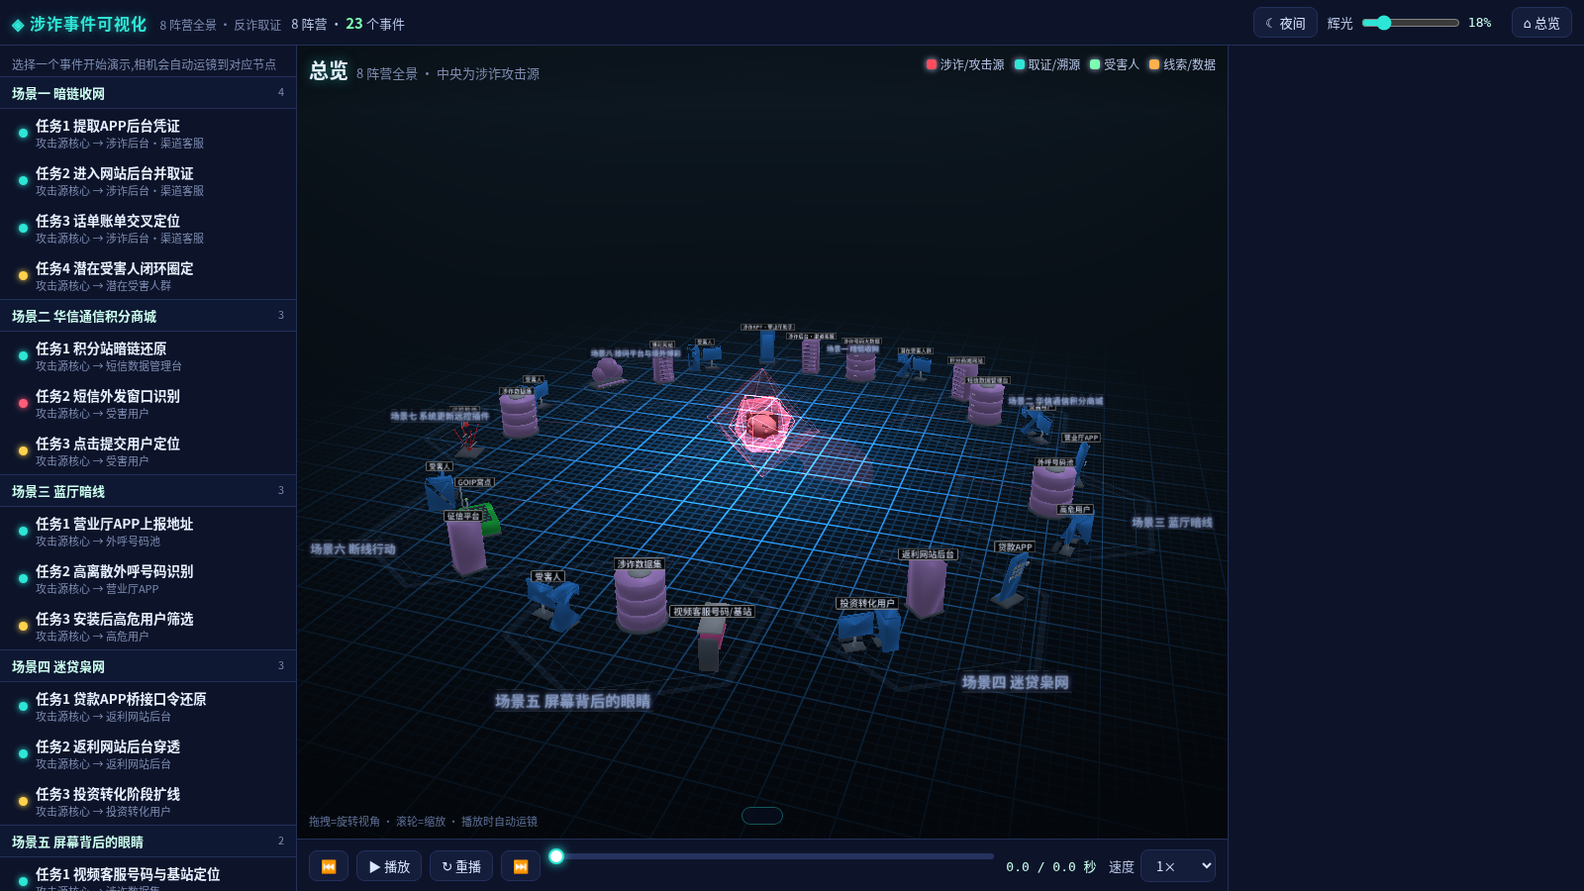
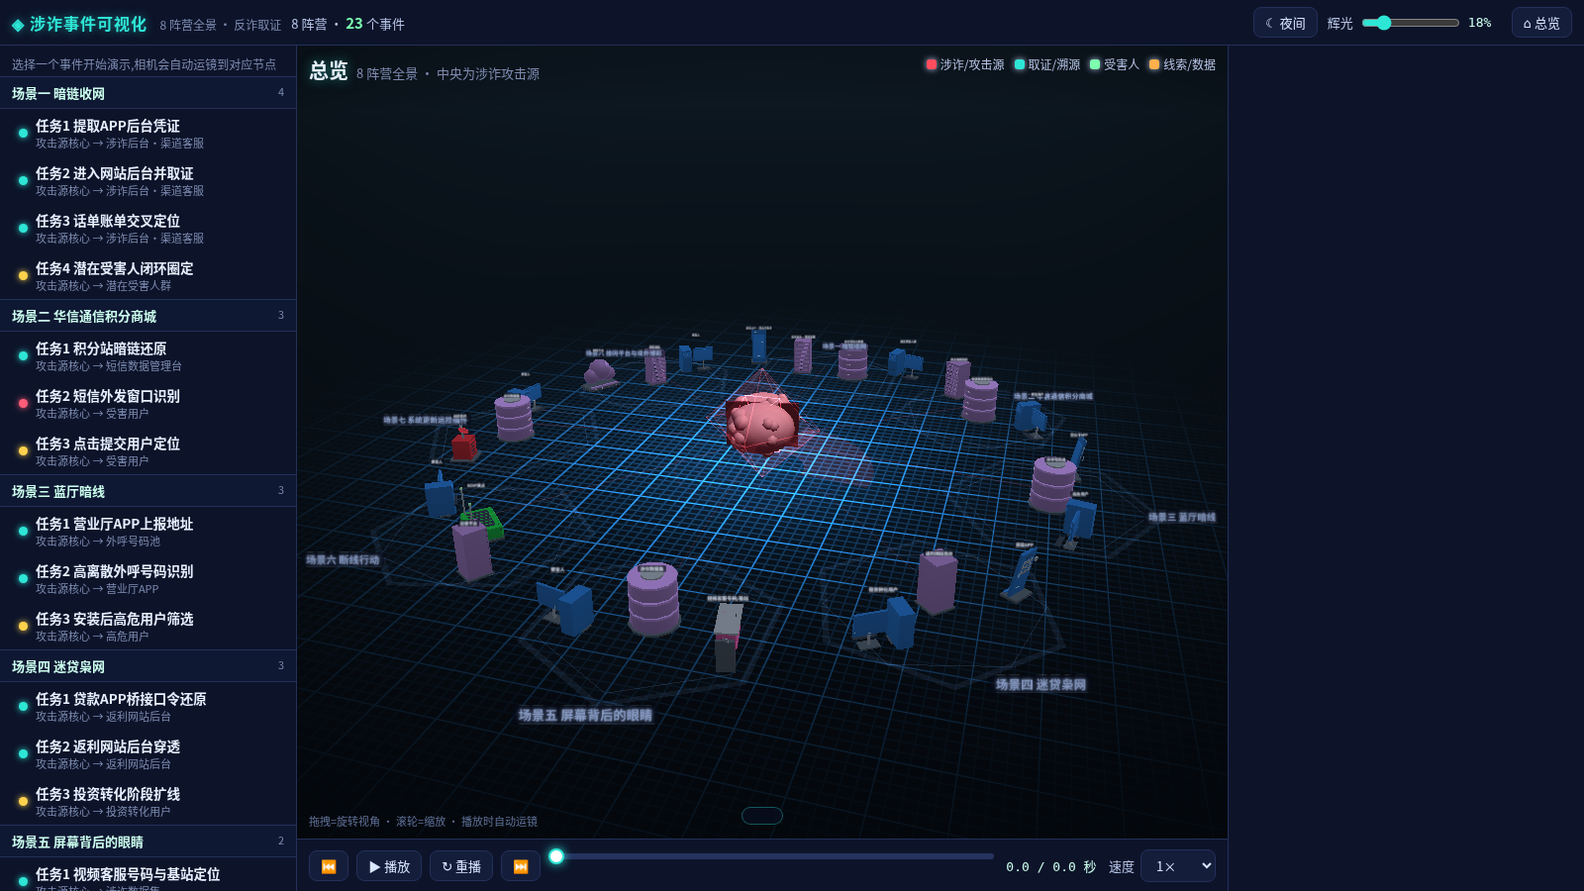
六边形一角朝中心;节点名改小字号中文标签;更新nodelib修破面;核心透空露出内部大脑

Changed region(s): [[0.1875, 0.3422, 0.7812, 0.84], [0.4375, 0.8089, 0.5, 0.84]]

diff --git a/js/nodelib.js b/js/nodelib.js
@@ -20,7 +20,7 @@ const CATS = {
 };
 /* 状态色(与事件大全语义色一致) */
 const STATE_COL = {
-  dark:  { sel: '#ffffff', atk: '#ff2a3c', def: '#22e6ff', bg: '#07090f', grid: '#1a2438' },
+  dark:  { sel: '#ffffff', atk: '#ff2a3c', def: '#22e6ff', bg: '#0b1020', grid: '#1a2438' },
   light: { sel: '#0d1626', atk: '#c4001c', def: '#007f9e', bg: '#d5dee9', grid: '#7a8799' },
 };
 /* 统一承载立方体:所有模型归一化到边长 CUBE 的包围盒(最长边=1),底面贴地、水平居中。size 仅作整体倍数。 */
@@ -184,7 +184,7 @@ const SPEC = {
   /* ===== 攻击者 / 外部(红) ===== */
   attacker: { cat: 'ext', name: '攻击者', en: 'Attacker', size: 'M', abbr: 'ATK', role: ['源'],
     use: '外部恶意行为者的抽象,事件中的发起方。',
-    look: '兜帽式尖锥身体 + 头部圆球 + 前方一块小屏。',
+    look: '坐姿兜帽黑客:卫衣躯干 + 圆肩 + 深色帽内与红色面罩线,双手搭在打开的笔记本上,屏幕红光、背面灯标;低多边形硬边。',
     parts: [P('cone', [.75, 1.4, 10], [0, .7, 0]), P('sph', [.32, 10, 8], [0, 1.55, 0]), P('cone', [.42, .45, 10], [0, 1.82, -.05]), P('box', [.7, .45, .05], [0, .7, .7], [-.3, 0, 0])], core: [0, 1.55, .3] },
   botnet: { cat: 'ext', name: '僵尸网络', en: 'Botnet', size: 'L', abbr: 'BOT', role: ['源'],
     use: '被控制的大量设备集合,常用于 DDoS 与撞库。',
@@ -192,7 +192,7 @@ const SPEC = {
     parts: [...[...Array(6).keys()].map(i => P('oct', [.25], [Math.cos(i * PI / 3) * 1.15, .6 + (i % 2) * .35, Math.sin(i * PI / 3) * 1.15])), P('sph', [.35, 10, 8], [0, 1.0, 0]), P('tor', [1.15, .02, 2 * PI], [0, .75, 0], [PI / 2, 0, 0])], core: [0, 1.0, 0] },
   c2: { cat: 'ext', name: 'C2 服务器', en: 'C2 Server', size: 'M', abbr: 'C2', role: ['源'],
     use: '恶意软件回连的指挥控制端,下发指令收集数据。',
-    look: '四棱锥格构铁塔 + 塔顶发射球 + 两道发射弧。',
+    look: '指挥服务器塔(刀片位 + 指示灯)+ 顶部碟形天线 + 两道发射弧。',
     parts: [P('cone', [.75, 2.0, 4], [0, 1.0, 0]), P('box', [.9, .04, .04], [0, .6, 0], [0, PI / 4, 0]), P('sph', [.18, 8, 6], [0, 2.15, 0]), P('tor', [.45, .025, PI * .6], [0, 2.15, 0], [0, 0, PI * .2]), P('tor', [.75, .025, PI * .6], [0, 2.15, 0], [0, 0, PI * .2])], core: [0, 2.15, 0] },
   internet: { cat: 'ext', name: '互联网', en: 'Internet', size: 'XL', abbr: 'NET', role: ['路径', '源'],
     use: '外部公共网络的抽象,内外网边界的另一侧。',
@@ -200,7 +200,7 @@ const SPEC = {
     parts: [P('sph', [1.1, 16, 10], [0, 1.25, 0]), P('tor', [1.45, .03, 2 * PI], [0, 1.25, 0], [PI / 2 - .4, 0, .3]), P('tor', [1.15, .025, 2 * PI], [0, 1.25, 0], [0, 0, 0])], core: [0, 1.25, 0] },
   insider: { cat: 'ext', name: '内部威胁', en: 'Insider Threat', size: 'M', abbr: 'INS', role: ['源'],
     use: '拥有合法权限但滥用权限的内部人员。',
-    look: '圆柱身体 + 圆头 + 胸前工牌方片(区别于兜帽攻击者)。',
+    look: '站姿西装人物:白衬衫 + 红领带 + 胸前工牌挂绳,抱着外泄的文件盒;与兜帽攻击者同一人形语言但可区分。',
     parts: [P('cyl', [.4, .5, 1.2, 12], [0, .6, 0]), P('sph', [.33, 10, 8], [0, 1.55, 0]), P('box', [.3, .38, .04], [.15, .85, .48]), P('box', [.04, .25, .02], [.15, 1.12, .48])], core: [0, 1.55, .35] },
 
   /* ===== v7 补充:对照对抗赛 32 种模型 ===== */
@@ -413,28 +413,40 @@ const RSPEC = {
   pos: [B('base', 0, 0, 0, .9, .06, .7), B('body', 0, .06, 0, .8, .18, .6), ...ROW(4, -.3, .0, x => B('port', x, .24, .1, .06, .02, .06)), C('detail', .25, .24, -.2, .1, .3, 14, null, [0, 0, PI / 2]),
     C('detail', 0, .24, -.05, .03, .2, 8), B('body', 0, .42, .02, .5, .36, .04, [-.35, 0, 0]), B('face', 0, .45, .045, .44, .3, .01, [-.35, 0, 0]), B('led', .35, .24, .3, .04, .02, .01)],
   /* ===== 外部 / 威胁(红) ===== */
-  attacker: [C('base', 0, 0, 0, .28, .03, 10),
-    /* 兜帽斗篷:锥体 + 外扩口沿 */
-    K('body', 0, .03, 0, .34, .55, 10), C('detail', 0, .48, 0, .36, .08, 10, .3),
-    /* 头与面罩 */
-    S('body', 0, .68, .02, .13), C('face', 0, .62, .08, .12, .1, 10, .14, [PI / 2 - .2, 0, 0]),
-    B('port', 0, .64, .16, .14, .06, .02, [-.15, 0, 0]),
-    S('led', -.05, .7, .16, .02), S('led', .05, .7, .16, .02),
-    /* 肩屏 / 手持终端 */
-    B('detail', .22, .32, .12, .2, .28, .04, [0, -.4, -.2]), B('face', .22, .34, .14, .16, .22, .01, [0, -.4, -.2]),
-    B('led', .22, .42, .145, .04, .02, .01, [0, -.4, -.2]),
-    /* 腰间线缆 */
-    TO('detail', 0, .28, 0, .22, .012, PI * 1.2, [PI / 2, 0, .3])],
+  /* 兜帽黑客:坐姿半身 + 打开的笔记本(屏幕红光朝向人物,背面灯标朝外),正面 +Z */
+  attacker: [B('base', 0, 0, .02, .84, .04, .8),
+    /* 卫衣躯干(上窄下宽)+ 圆肩 */
+    C('body', 0, .04, -.16, .19, .36, 8, .25), S('body', -.15, .36, -.16, .085), S('body', .15, .36, -.16, .085),
+    B('face', 0, .1, .07, .2, .09, .02), B('detail', -.035, .27, .08, .012, .1, .012), B('detail', .035, .27, .08, .012, .1, .012),
+    /* 兜帽 + 帽檐 + 深色帽内 + 红色面罩线 */
+    S('body', 0, .56, -.15, .155), TO('face', 0, .55, .012, .108, .03, PI), C('port', 0, .54, -.002, .102, .03, 10, null, [PI / 2, 0, 0]),
+    B('led', 0, .555, .018, .13, .018, .01),
+    /* 手臂:肩 → 键盘 */
+    C('body', -.15, .03, -.01, .045, .42, 6, null, [-.78, 0, 0]), C('body', .15, .03, -.01, .045, .42, 6, null, [-.78, 0, 0]),
+    B('face', -.12, .065, .16, .07, .035, .08), B('face', .12, .065, .16, .07, .035, .08),
+    /* 笔记本:底座 + 键盘 + 后倾屏幕(红光) + 背面灯标 */
+    B('detail', 0, .04, .22, .46, .025, .26), B('port', 0, .066, .2, .36, .004, .15),
+    B('detail', 0, .05, .36, .46, .32, .02, [.22, 0, 0]), B('led', 0, .07, .345, .4, .26, .006, [.22, 0, 0]),
+    B('led', 0, .18, .385, .05, .05, .006, [.22, 0, 0])],
   botnet: [S('body', 0, .45, 0, .18), TO('detail', 0, .45, 0, .36, .01, 2 * PI, [PI / 2, 0, 0]), ...ROW(6, 0, 5, (i) => O('face', Math.cos(i * PI / 3) * .38, .38, Math.sin(i * PI / 3) * .38, .09)),
     ...ROW(6, 0, 5, (i) => B('detail', Math.cos(i * PI / 3) * .2, .44, Math.sin(i * PI / 3) * .2, .2, .01, .01, [0, -i * PI / 3, 0])), S('led', 0, .64, 0, .04), C('base', 0, 0, 0, .1, .27, 8)],
-  c2: [B('base', 0, 0, 0, .6, .04, .6), ...[[-1, -1], [1, -1], [-1, 1], [1, 1]].map(([a, b]) => C('body', a * .13, .04, b * .13, .015, .78, 6, null, [b * .3, 0, -a * .3])),
-    ...[.25, .5].flatMap(y => [B('detail', 0, y, .2 - y * .25, .5 - y * .5, .02, .02), B('detail', 0, y, -.2 + y * .25, .5 - y * .5, .02, .02)]), S('face', 0, .85, 0, .08), S('led', 0, .85, 0, .05),
-    TO('detail', 0, .85, 0, .16, .012, PI, [0, 0, 0]), TO('detail', 0, .85, 0, .26, .012, PI, [0, 0, 0])],
+  /* C2:指挥服务器塔 + 顶部碟形天线与发射弧 */
+  c2: [B('base', 0, 0, 0, .62, .04, .62), B('body', 0, .04, 0, .44, .5, .44), B('face', 0, .1, .225, .36, .38, .02),
+    ...ROW(4, .14, .4, y => [B('port', -.04, y, .238, .22, .03, .01), B('led', .13, y + .005, .238, .03, .02, .01)]).flat(),
+    C('detail', 0, .54, 0, .03, .14, 6), C('face', 0, .7, .02, .14, .05, 8, .04, [.5, 0, 0]), S('led', 0, .76, .07, .03),
+    TO('detail', 0, .8, .1, .16, .014, PI * .7, [-.5, 0, PI * .15]), TO('detail', 0, .82, .12, .25, .014, PI * .7, [-.5, 0, PI * .15])],
   internet: [C('base', 0, 0, 0, .18, .03, 8), C('detail', 0, .03, 0, .025, .08, 6), S('body', 0, .48, 0, .34),
     TO('face', 0, .48, 0, .35, .012, 2 * PI, [PI / 2, 0, 0]), TO('face', 0, .48, 0, .35, .012, 2 * PI, [0, 0, 0]),
     TO('detail', 0, .48, 0, .46, .014, 2 * PI, [PI / 2 + .35, .2, .25]), S('led', .42, .6, .08, .03)],
-  insider: [C('base', 0, 0, 0, .28, .04, 18), C('body', 0, .04, 0, .18, .5, 16, .22), S('body', 0, .7, 0, .14), B('face', .06, .34, .2, .12, .14, .02), B('led', .06, .44, .21, .04, .02, .01),
-    C('detail', -.24, .2, 0, .045, .3, 8), C('detail', .24, .2, 0, .045, .3, 8), B('port', 0, .54, .17, .1, .05, .02)],
+  /* 内部威胁:站姿西装人物 + 工牌 + 抱着外泄的文件盒,与攻击者同一人形语言 */
+  insider: [C('base', 0, 0, 0, .3, .04, 10),
+    B('port', -.07, .04, 0, .1, .34, .12), B('port', .07, .04, 0, .1, .34, .12),
+    C('body', 0, .38, 0, .17, .3, 8, .14), S('body', -.16, .64, 0, .08), S('body', .16, .64, 0, .08),
+    B('detail', 0, .5, .12, .08, .17, .03, [.12, 0, 0]), B('face', 0, .48, .14, .03, .15, .01, [.12, 0, 0]),
+    B('led', .09, .55, .14, .05, .065, .01, [.12, 0, 0]), B('detail', .06, .6, .13, .01, .08, .01, [.12, 0, -.35]),
+    C('detail', 0, .68, 0, .05, .05, 6), S('detail', 0, .8, 0, .1), S('port', 0, .84, -.015, .1),
+    C('body', -.2, .36, 0, .04, .28, 6, null, [0, 0, -.12]), C('body', .19, .44, .07, .04, .2, 6, null, [1.2, 0, 0]),
+    B('face', .14, .4, .19, .2, .16, .12), B('led', .14, .48, .25, .14, .012, .006)],
 
   /* ===== v7 新增 ===== */
   aggswitch: [B('base', 0, 0, 0, .74, .04, .6), ...[0, 1].flatMap(k => [B('body', 0, .05 + k * .26, 0, .7, .2, .56), B('face', 0, .08 + k * .26, .285, .64, .14, .02),
@@ -485,22 +497,14 @@ function segFor(size, prefer) {
   if (size < .18) return Math.min(p, 10);
   return Math.min(p, 12);
 }
-function roundedBoxGeo(T, w, h, d, b) {
-  b = Math.min(b || .02, Math.min(w, h, d) * .18);
-  /* 主体 + 顶面四条高光棱(低段数倒角观感),避免 12+8 全棱带来的面数膨胀 */
-  const g = new T.BoxGeometry(w, h, d);
-  const edges = [];
-  const add = (gw, gh, gd, x, y, z) => { const e = new T.BoxGeometry(gw, gh, gd); e.translate(x, y, z); edges.push(e); };
-  add(w - 2 * b, b, b, 0, h / 2 - b / 2, d / 2 - b / 2);
-  add(w - 2 * b, b, b, 0, h / 2 - b / 2, -(d / 2 - b / 2));
-  add(b, b, d - 2 * b, w / 2 - b / 2, h / 2 - b / 2, 0);
-  add(b, b, d - 2 * b, -(w / 2 - b / 2), h / 2 - b / 2, 0);
-  return mergeGeos(T, [g].concat(edges));
-}
+/* rbox:不再做自制倒角(旧实现把带 index 的 BoxGeometry 当作非索引数组拼接,生成交叉斜三角),直接用 BoxGeometry 原始顶点 */
 function atomGeo(T, a) {
+  const g0 = atomGeo0(T, a); if (a.flat && a.s !== 'box' && a.s !== 'rbox') { g0.deleteAttribute('normal'); g0.computeVertexNormals(); } return g0;
+}
+function atomGeo0(T, a) {
   let g, cy;
   if (a.s === 'box') { g = new T.BoxGeometry(a.w, a.h, a.d); cy = a.y + a.h / 2; }
-  else if (a.s === 'rbox') { g = roundedBoxGeo(T, a.w, a.h, a.d, a.b); cy = a.y + a.h / 2; }
+  else if (a.s === 'rbox') { g = new T.BoxGeometry(a.w, a.h, a.d); cy = a.y + a.h / 2; }
   else if (a.s === 'cyl') { const seg = segFor(Math.max(a.rt, a.rb) * 2, a.seg); g = new T.CylinderGeometry(a.rt, a.rb, a.h, seg, 1); cy = a.y + a.h / 2; }
   else if (a.s === 'cone') { const seg = segFor(a.rad * 2, a.seg); g = new T.ConeGeometry(a.rad, a.h, seg); cy = a.y + a.h / 2; }
   else if (a.s === 'tor') { const rs = segFor(a.R * 2, 16), ts = segFor(a.t * 2, 6); g = new T.TorusGeometry(a.R, a.t, Math.max(4, ts), Math.max(10, rs), a.arc); cy = a.y; }
@@ -510,31 +514,22 @@ function atomGeo(T, a) {
   g.translate(a.x, cy, a.z);
   return g.index ? g.toNonIndexed() : g;
 }
+/* 同角色原子拼接:每个原子先 toNonIndexed,保持各自原始顶点与硬边法线;不跨原子焊接、不平均法线 */
 function mergeGeos(T, list) {
+  list = list.map(g => g.index ? g.toNonIndexed() : g);
   let n = 0; list.forEach(g => n += g.attributes.position.count);
   const pos = new Float32Array(n * 3), nor = new Float32Array(n * 3); let o = 0;
   list.forEach(g => { pos.set(g.attributes.position.array, o * 3); nor.set(g.attributes.normal.array, o * 3); o += g.attributes.position.count; g.dispose(); });
-  const m = new T.BufferGeometry(); m.setAttribute('position', new T.BufferAttribute(pos, 3)); m.setAttribute('normal', new T.BufferAttribute(nor, 3)); return weldGeo(T, m);
-}
-/** 合并重复顶点(量化到 1e-4),同步法线平均 */
-function weldGeo(T, geo, eps) {
-  eps = eps || 1e-4; const inv = 1 / eps;
-  const P = geo.attributes.position.array, N = geo.attributes.normal.array;
-  const map = new Map(), idx = new Uint32Array(P.length / 3);
-  const pos = [], nor = []; let nV = 0;
-  for (let i = 0; i < P.length; i += 3) {
-    const key = (Math.round(P[i] * inv)) + ',' + (Math.round(P[i + 1] * inv)) + ',' + (Math.round(P[i + 2] * inv));
-    let id = map.get(key);
-    if (id == null) { id = nV++; map.set(key, id); pos.push(P[i], P[i + 1], P[i + 2]); nor.push(N[i], N[i + 1], N[i + 2]); }
-    else { nor[id * 3] += N[i]; nor[id * 3 + 1] += N[i + 1]; nor[id * 3 + 2] += N[i + 2]; }
-    idx[i / 3] = id;
+  /* 剔除零面积三角(球/锥极点处) */
+  const kp = [], kn = [];
+  for (let t = 0; t < n; t += 3) {
+    const i = t * 3, ax = pos[i], ay = pos[i + 1], az = pos[i + 2];
+    const ux = pos[i + 3] - ax, uy = pos[i + 4] - ay, uz = pos[i + 5] - az, vx = pos[i + 6] - ax, vy = pos[i + 7] - ay, vz = pos[i + 8] - az;
+    const cx = uy * vz - uz * vy, cy = uz * vx - ux * vz, cz = ux * vy - uy * vx;
+    if (cx * cx + cy * cy + cz * cz < 4e-16) continue;
+    for (let j = 0; j < 9; j++) { kp.push(pos[i + j]); kn.push(nor[i + j]); }
   }
-  for (let i = 0; i < nor.length; i += 3) { const l = Math.hypot(nor[i], nor[i + 1], nor[i + 2]) || 1; nor[i] /= l; nor[i + 1] /= l; nor[i + 2] /= l; }
-  const m = new T.BufferGeometry();
-  m.setAttribute('position', new T.Float32BufferAttribute(pos, 3));
-  m.setAttribute('normal', new T.Float32BufferAttribute(nor, 3));
-  m.setIndex(Array.from(idx));
-  geo.dispose(); return m;
+  const m = new T.BufferGeometry(); m.setAttribute('position', new T.Float32BufferAttribute(kp, 3)); m.setAttribute('normal', new T.Float32BufferAttribute(kn, 3)); return m;
 }
 /** 近似 AO:凹处/底面/朝下法线变暗,写入 aAo attribute */
 function bakeAO(geo, role) {
@@ -555,7 +550,7 @@ const GCACHE = {};
 /* 构建并归一化到 CUBE 立方体(最长边=CUBE,底面 y=0,水平居中),按角色合并 */
 function buildModel(T, type) {
   if (GCACHE[type]) return GCACHE[type];
-  const atoms = RSPEC[type].flat(), geos = atoms.map(a => ({ r: a.r, g: atomGeo(T, a) }));
+  const atoms = RSPEC[type].flat().map(a => SPEC[type] && SPEC[type].cat === 'ext' ? Object.assign({ flat: true }, a) : a), geos = atoms.map(a => ({ r: a.r, g: atomGeo(T, a) }));
   const bb = new T.Box3(); geos.forEach(x => { x.g.computeBoundingBox(); bb.union(x.g.boundingBox); });
   const raw = bb.getSize(new T.Vector3()), k = CUBE / Math.max(raw.x, raw.y, raw.z);
   const cx = (bb.min.x + bb.max.x) / 2, cz = (bb.min.z + bb.max.z) / 2, y0 = bb.min.y;
@@ -579,7 +574,7 @@ const ROLE_FIX = { dark: { base: '#556578', port: '#3a4860', detail: '#a8b6c8' }
 const ROLE_K = { dark: { body: .78, face: 1.0, rim: { body: .22, face: .14, base: .08, port: .04, led: 0, detail: .12 }, spec: { body: .18, face: .22, base: .06, port: .04, led: 0, detail: .12 }, shin: { body: 28, face: 36, base: 16, port: 20, led: 1, detail: 24 } }, light: { body: .88, face: 1.0, rim: { body: .12, face: .08, base: .04, port: .03, led: 0, detail: .07 }, spec: { body: .12, face: .14, base: .04, port: .03, led: 0, detail: .08 }, shin: { body: 32, face: 40, base: 18, port: 22, led: 1, detail: 28 } } };
 function roleColor(T, main, role, theme) {
   const F = ROLE_FIX[theme]; if (F[role]) return new T.Color(F[role]);
-  if (role === 'led') return main.clone().lerp(new T.Color('#ffffff'), .55);
+  if (role === 'led') { const hot = main.r > main.g * 2 && main.r > main.b * 2; return main.clone().lerp(new T.Color(hot ? '#ffb0b0' : '#ffffff'), hot ? .25 : .55); }
   return main.clone().multiplyScalar(ROLE_K[theme][role]);
 }
 function hemiColors(theme) {
@@ -594,7 +589,9 @@ function devMat(T, main, role, theme) {
     uFill: { value: theme === 'light' ? .78 : .80 },
     uSpec: { value: K.spec[role] * .75 }, uShin: { value: K.shin[role] },
     uHemiSky: { value: H.sky }, uHemiGnd: { value: H.gnd },
-  }, vertexShader: VS_DEV, fragmentShader: FS_DEV });
+  }, vertexShader: VS_DEV, fragmentShader: FS_DEV,
+  /* 贴在面板上的细部与面板共面,深度偏移防 z-fighting(不改几何) */
+  polygonOffset: true, polygonOffsetFactor: { body: 0, base: 1, face: -1, detail: -2, port: -3, led: -4 }[role] || 0, polygonOffsetUnits: { body: 0, base: 1, face: -1, detail: -2, port: -3, led: -4 }[role] || 0 });
 }
 /** 脚下柔和接触阴影(径向渐变贴片,非发光底座) */
 function contactShadow(T, theme, size) {
@@ -830,6 +827,7 @@ function setupBloom(renderer, opts) {
 }
 
 const api = { version: 8, CATS, SPEC, RSPEC, ROLES, buildModel, CUBE, SIZES, STATES, STATE_COL, FRAME, ZONE, createNode, createZone, createZoneLabel, createLink, fitLabels, addLights, setupBloom, markBloom, prepareRenderer, setTheme, get theme() { return THEME; }, types: () => Object.keys(SPEC), byCat: c => Object.keys(SPEC).filter(k => SPEC[k].cat === c) };
+api._debug = { RSPEC, atomGeo, buildModel };
 root.NODELIB = api;
 if (typeof module !== 'undefined') module.exports = api;
 })(typeof window !== 'undefined' ? window : globalThis);

diff --git a/js/stage-world.js b/js/stage-world.js
@@ -62,34 +62,41 @@ function Stage(canvas, host) {
   const campLabels = [];
   W.CAMPS.forEach((camp, ci) => {
     const p = camp.pos; const g = new T.Group(); g.position.set(p.x, 0, p.z);
-    const ring = new T.Mesh(new T.RingGeometry(10.5, 11.1, 6, 1), addMat(COL.info, 0.09, T.DoubleSide)); ring.rotation.x = -Math.PI / 2; ring.rotation.z = Math.PI / 6; ring.position.y = 0.01; g.add(ring);
-    const disk = new T.Mesh(new T.CircleGeometry(10.7, 6), addMat(COL.info, 0.012, T.DoubleSide)); disk.rotation.x = -Math.PI / 2; disk.rotation.z = Math.PI / 6; disk.position.y = 0.005; g.add(disk);
-    const hpts = []; for (let k = 0; k < 6; k++) { const aa = Math.PI / 6 + k * Math.PI / 3; hpts.push(new V3(Math.cos(aa) * 9.2, 0.012, Math.sin(aa) * 9.2)); } const hx2 = new T.LineLoop(new T.BufferGeometry().setFromPoints(hpts), lineMat(COL.info, 0.14)); g.add(hx2);
+    // 手动六边形:第0顶点朝中心(p.a+π),第3顶点朝外(p.a) — 保证一角对中心
+    const tipIn = p.a + Math.PI;
+    function hexPts(R, y) { const a = []; for (let k = 0; k < 6; k++) { const aa = tipIn + k * Math.PI / 3; a.push(new V3(Math.cos(aa) * R, y, Math.sin(aa) * R)); } return a; }
+    const outer = hexPts(10.8, 0.01), mid = hexPts(10.2, 0.01), inner = hexPts(9.2, 0.012);
+    // 外环带(两圈六边形之间的面)
+    const ringShape = new T.Shape(); ringShape.moveTo(outer[0].x, outer[0].z); for (let k = 1; k < 6; k++) ringShape.lineTo(outer[k].x, outer[k].z); ringShape.closePath();
+    const hole = new T.Path(); hole.moveTo(mid[0].x, mid[0].z); for (let k = 5; k >= 0; k--) hole.lineTo(mid[k].x, mid[k].z); hole.closePath(); ringShape.holes.push(hole);
+    const ringMesh = new T.Mesh(new T.ShapeGeometry(ringShape), addMat(COL.info, 0.1, T.DoubleSide)); ringMesh.rotation.x = -Math.PI / 2; ringMesh.position.y = 0.01; g.add(ringMesh);
+    const diskShape = new T.Shape(); diskShape.moveTo(mid[0].x, mid[0].z); for (let k = 1; k < 6; k++) diskShape.lineTo(mid[k].x, mid[k].z); diskShape.closePath();
+    const diskMesh = new T.Mesh(new T.ShapeGeometry(diskShape), addMat(COL.info, 0.014, T.DoubleSide)); diskMesh.rotation.x = -Math.PI / 2; diskMesh.position.y = 0.005; g.add(diskMesh);
+    g.add(new T.LineLoop(new T.BufferGeometry().setFromPoints(inner), lineMat(COL.info, 0.16)));
     scene.add(g);
-    const lab = textSprite(camp.name, { h: 1.6, color: '#9fb6e6', bg: 'rgba(9,14,32,0.6)' }); lab.position.set(p.x + Math.cos(p.a) * 11.2, 0.6, p.z + Math.sin(p.a) * 11.2); scene.add(lab); campLabels.push({ lab, baseC: '#9fb6e6' });
+    // 场景名:最外侧角
+    const lab = textSprite(camp.name, { h: 1.35, color: '#9fb6e6', bg: 'rgba(9,14,32,0.6)' }); lab.position.set(p.x + Math.cos(p.a) * 12.2, 0.55, p.z + Math.sin(p.a) * 12.2); scene.add(lab); campLabels.push({ lab, baseC: '#9fb6e6' });
   });
 
   // ---- 中央攻击源核心(反诈特征:红核 + 骷髅/警示 + 雷达环 + 盾形外罩) ----
   const core = new T.Group(); core.scale.setScalar(1.5); scene.add(core);
-  const coreMat = holoMat('#ff4d5e', { base: 0.2, rim: 0.6, pow: 1.5, scan: 0.05, glow: 0.9 });
-  const coreMesh = new T.Mesh(new T.IcosahedronGeometry(2.4, 0), coreMat); coreMesh.position.y = 3.4; core.add(coreMesh);
+  const coreMat = holoMat('#ff4d5e', { base: 0.04, rim: 0.55, pow: 1.8, scan: 0.04, glow: 0.55 });
+  const coreMesh = new T.Mesh(new T.IcosahedronGeometry(2.4, 0), coreMat); coreMesh.position.y = 3.4; coreMesh.visible = false; core.add(coreMesh);
   const coreEdge = new T.LineSegments(new T.EdgesGeometry(new T.IcosahedronGeometry(2.4, 0)), lineMat(col('atk'), 0.8)); coreEdge.position.y = 3.4; core.add(coreEdge);
   const shellMat = holoMat('#ff4d5e', { base: 0.02, rim: 0.4, pow: 2.6, scan: 0.08, glow: 0.8 });
   const shell = new T.Mesh(new T.OctahedronGeometry(4.2, 0), shellMat); shell.position.y = 3.4; core.add(shell);
   const shellEdge = new T.LineSegments(new T.EdgesGeometry(new T.OctahedronGeometry(4.2, 0)), lineMat(col('atk'), 0.35)); shellEdge.position.y = 3.4; core.add(shellEdge);
   // 核心内部:大脑造型(两瓣 + 脑沟凸起,受场景灯光)
-  const brain = new T.Group(); brain.position.y = 3.4; core.add(brain);
-  const brainMat = new T.MeshStandardMaterial({ color: new T.Color('#f0a6b8'), emissive: new T.Color('#5a1020'), emissiveIntensity: 0.5, roughness: 0.78, metalness: 0.05 });
-  const lobeGeo = new T.SphereGeometry(0.92, 20, 16);
-  const lobeL = new T.Mesh(lobeGeo, brainMat); lobeL.position.set(-0.42, 0, 0); lobeL.scale.set(1, 0.86, 1.18); brain.add(lobeL);
-  const lobeR = new T.Mesh(lobeGeo, brainMat); lobeR.position.set(0.42, 0, 0); lobeR.scale.set(1, 0.86, 1.18); brain.add(lobeR);
-  // 脑回凸起(沿表面散布的小球)
+  const brain = new T.Group(); brain.position.y = 3.4; brain.scale.setScalar(2.05); core.add(brain);
+  const brainMat = new T.MeshStandardMaterial({ color: new T.Color('#f2b4c0'), emissive: new T.Color('#c03048'), emissiveIntensity: 0.35, roughness: 0.65, metalness: 0.05 });
+  const lobeGeo = new T.SphereGeometry(0.95, 24, 18);
+  const lobeL = new T.Mesh(lobeGeo, brainMat); lobeL.position.set(-0.48, 0.05, 0); lobeL.scale.set(1.05, 0.9, 1.22); brain.add(lobeL);
+  const lobeR = new T.Mesh(lobeGeo, brainMat); lobeR.position.set(0.48, 0.05, 0); lobeR.scale.set(1.05, 0.9, 1.22); brain.add(lobeR);
   const brainRng = rng(21); const gyri = [];
-  for (let i = 0; i < 26; i++) { const th = brainRng() * Math.PI * 2, ph = Math.acos(2 * brainRng() - 1); const rr = 0.82; const side = brainRng() > 0.5 ? 0.42 : -0.42;
-    const bx = side + rr * Math.sin(ph) * Math.cos(th), by = rr * 0.86 * Math.cos(ph), bz = rr * 1.18 * Math.sin(ph) * Math.sin(th);
-    const b = new T.Mesh(new T.SphereGeometry(0.16 + brainRng() * 0.1, 8, 6), brainMat); b.position.set(bx, by, bz); brain.add(b); gyri.push(b); }
-  // 中央脑沟(暗色薄片)
-  const sulcus = new T.Mesh(new T.BoxGeometry(0.06, 1.5, 2.3), new T.MeshStandardMaterial({ color: new T.Color('#7a3344'), roughness: 0.9 })); brain.add(sulcus);
+  for (let i = 0; i < 32; i++) { const th = brainRng() * Math.PI * 2, ph = Math.acos(2 * brainRng() - 1); const rr = 0.88; const side = brainRng() > 0.5 ? 0.48 : -0.48;
+    const bx = side + rr * Math.sin(ph) * Math.cos(th), by = 0.05 + rr * 0.9 * Math.cos(ph), bz = rr * 1.22 * Math.sin(ph) * Math.sin(th);
+    const b = new T.Mesh(new T.SphereGeometry(0.18 + brainRng() * 0.12, 8, 6), brainMat); b.position.set(bx, by, bz); brain.add(b); gyri.push(b); }
+  const sulcus = new T.Mesh(new T.BoxGeometry(0.08, 1.6, 2.5), new T.MeshStandardMaterial({ color: new T.Color('#8a2a3c'), roughness: 0.85, emissive: new T.Color('#3a0810'), emissiveIntensity: 0.3 })); brain.add(sulcus);
   // 脚下雷达环(多层)
   const radar = []; for (let i = 0; i < 3; i++) { const m = new T.Mesh(new T.RingGeometry(3 + i * 1.6, 3.2 + i * 1.6, 72), addMat(col('atk'), 0.4, T.DoubleSide)); m.rotation.x = -Math.PI / 2; m.position.y = 0.05; core.add(m); radar.push(m); }
   const sweepM = new T.Mesh(new T.RingGeometry(3, 8, 64, 1, 0, Math.PI * 0.5), addMat(col('atk'), 0.16, T.DoubleSide)); sweepM.rotation.x = -Math.PI / 2; sweepM.position.y = 0.06; core.add(sweepM);
@@ -114,9 +121,10 @@ function Stage(canvas, host) {
     // 实心设备模型
     if (window.NODELIB) { try {
       const type = TYPE_OVR[nd.id] || KIND2TYPE[nd.kind] || 'websrv';
-      const m = NODELIB.createNode(type, { theme: 'dark', size: 1, label: nd.label });
+      const m = NODELIB.createNode(type, { theme: 'dark', size: 1, label: false, badge: false });
       m.group.position.set(nd.x, 0, nd.z); m.group.rotation.y = Math.atan2(-nd.x, -nd.z);
-      m.group.scale.setScalar(MODEL_SCALE); m.group.traverse(o => { if (o.isSprite) { o.scale.multiplyScalar(0.5); o.position.y *= 0.9; } }); scene.add(m.group); modelMap[nd.id] = m;
+      m.group.scale.setScalar(MODEL_SCALE); scene.add(m.group); modelMap[nd.id] = m;
+      const nlab = textSprite(nd.label, { h: 0.55, color: '#d8e0f0', bg: 'rgba(8,12,24,0.72)' }); nlab.position.set(nd.x, MODEL_SCALE * 1.08, nd.z); scene.add(nlab); m._nameLab = nlab;
     } catch (e) { self.errors.push('model ' + nd.id + ':' + e.message); } }
   });
   // 事件激活:隐藏这两个节点的实心模型,显示发光方盒(套上);其余恢复
